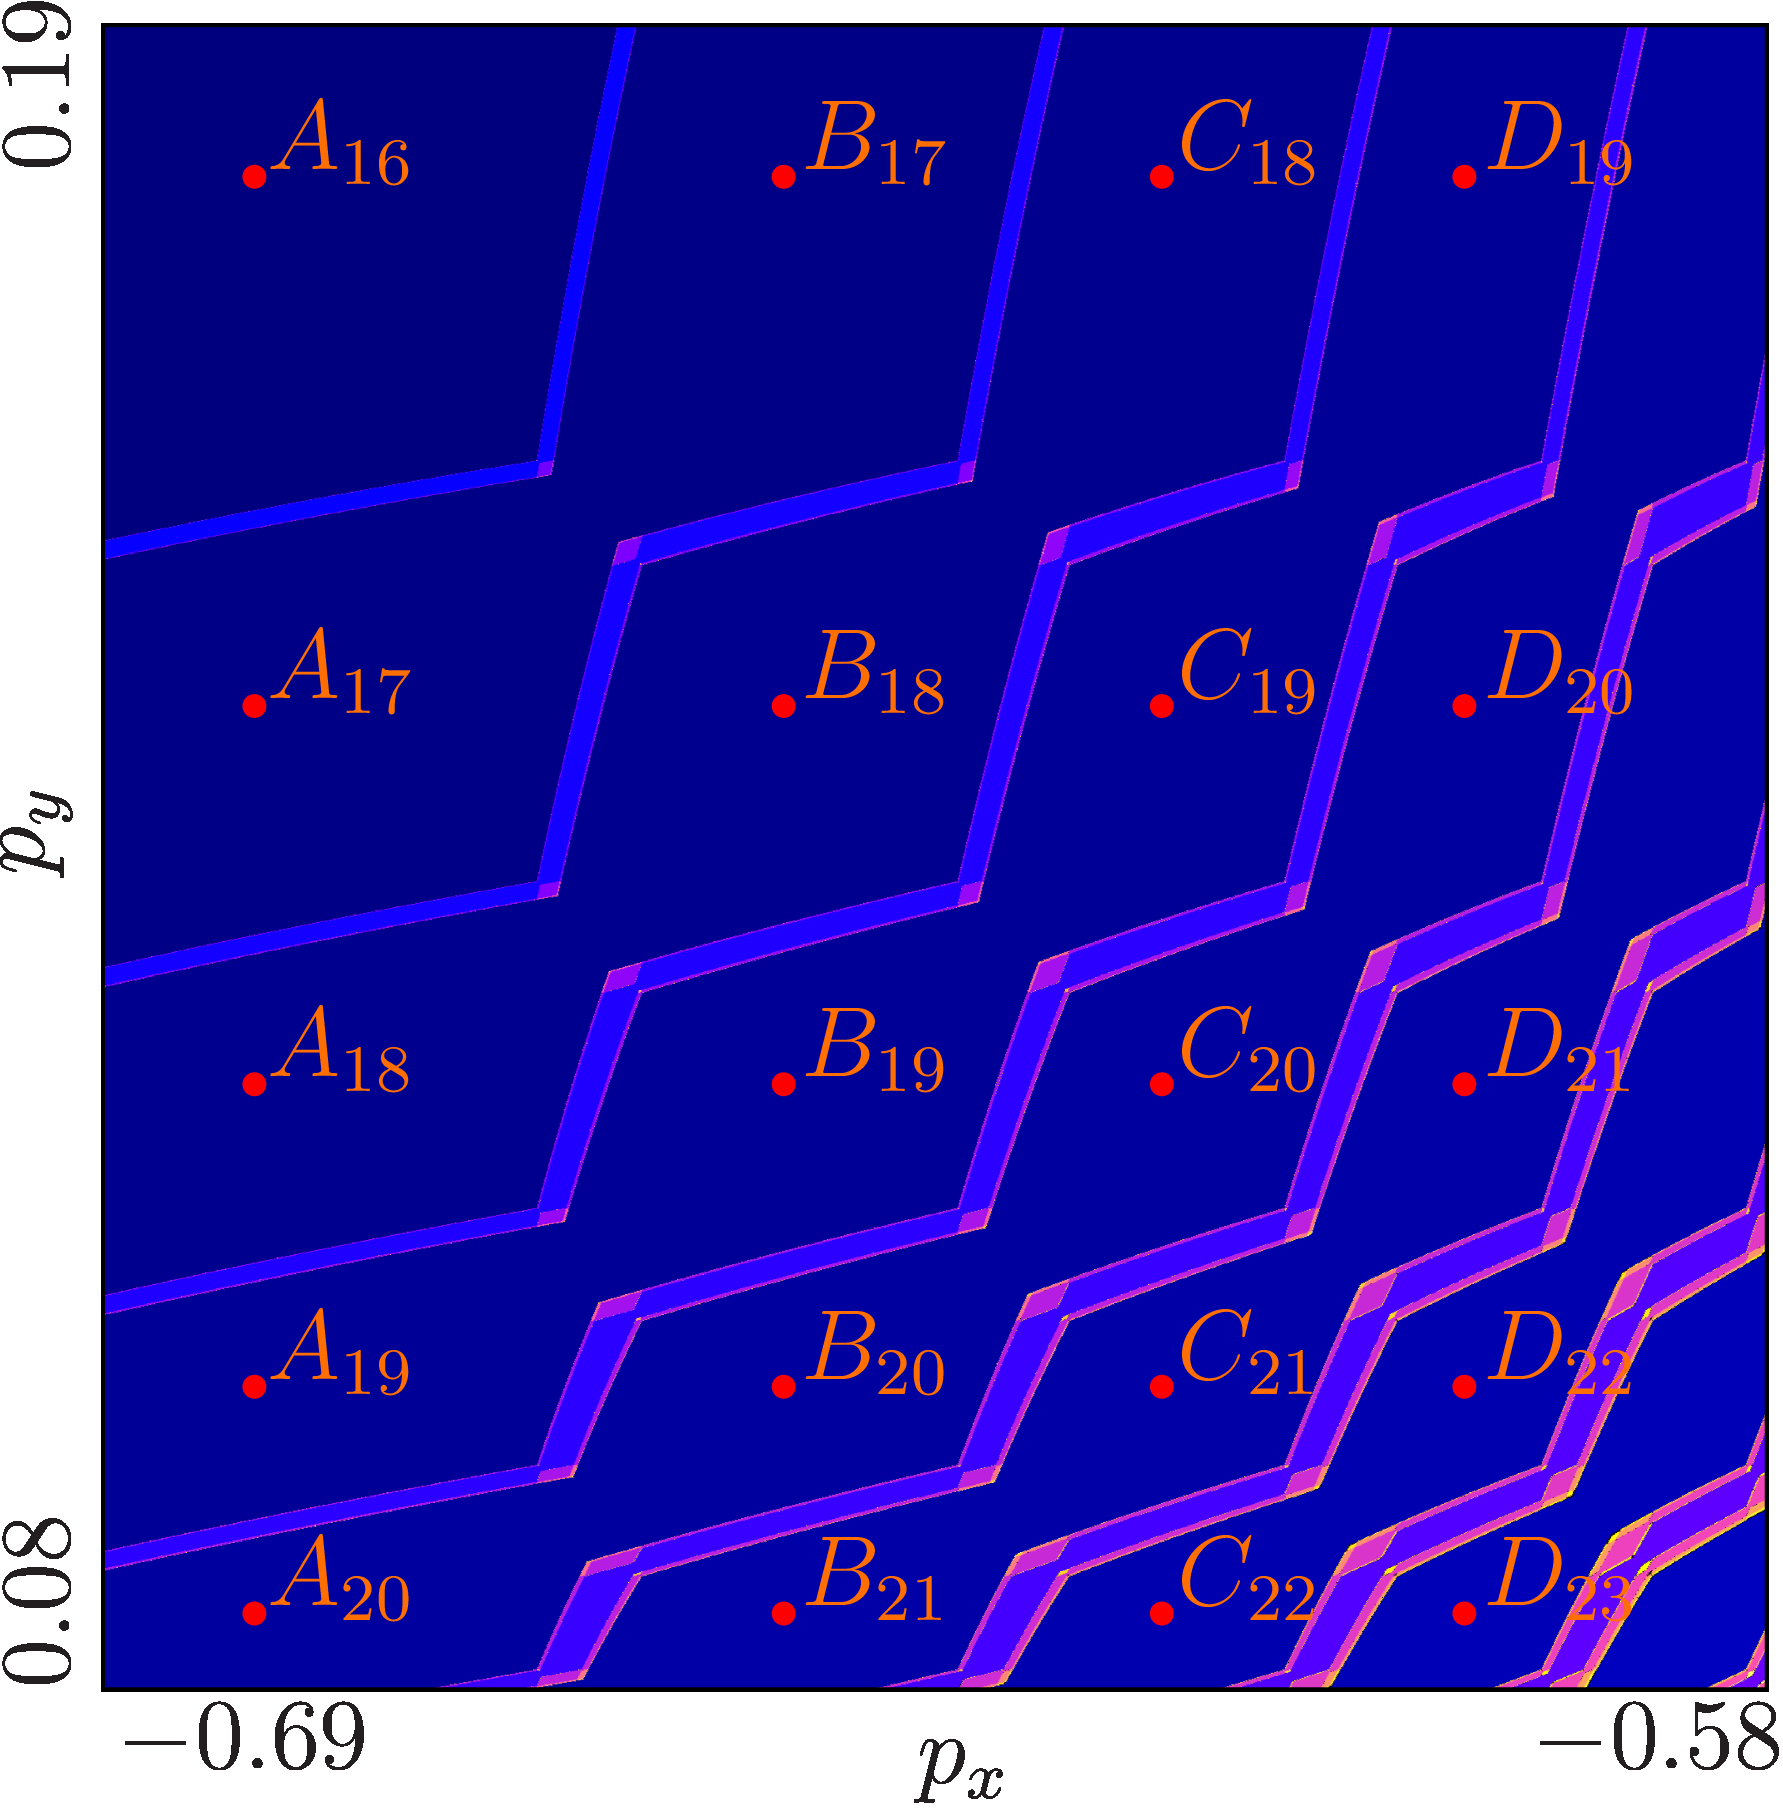
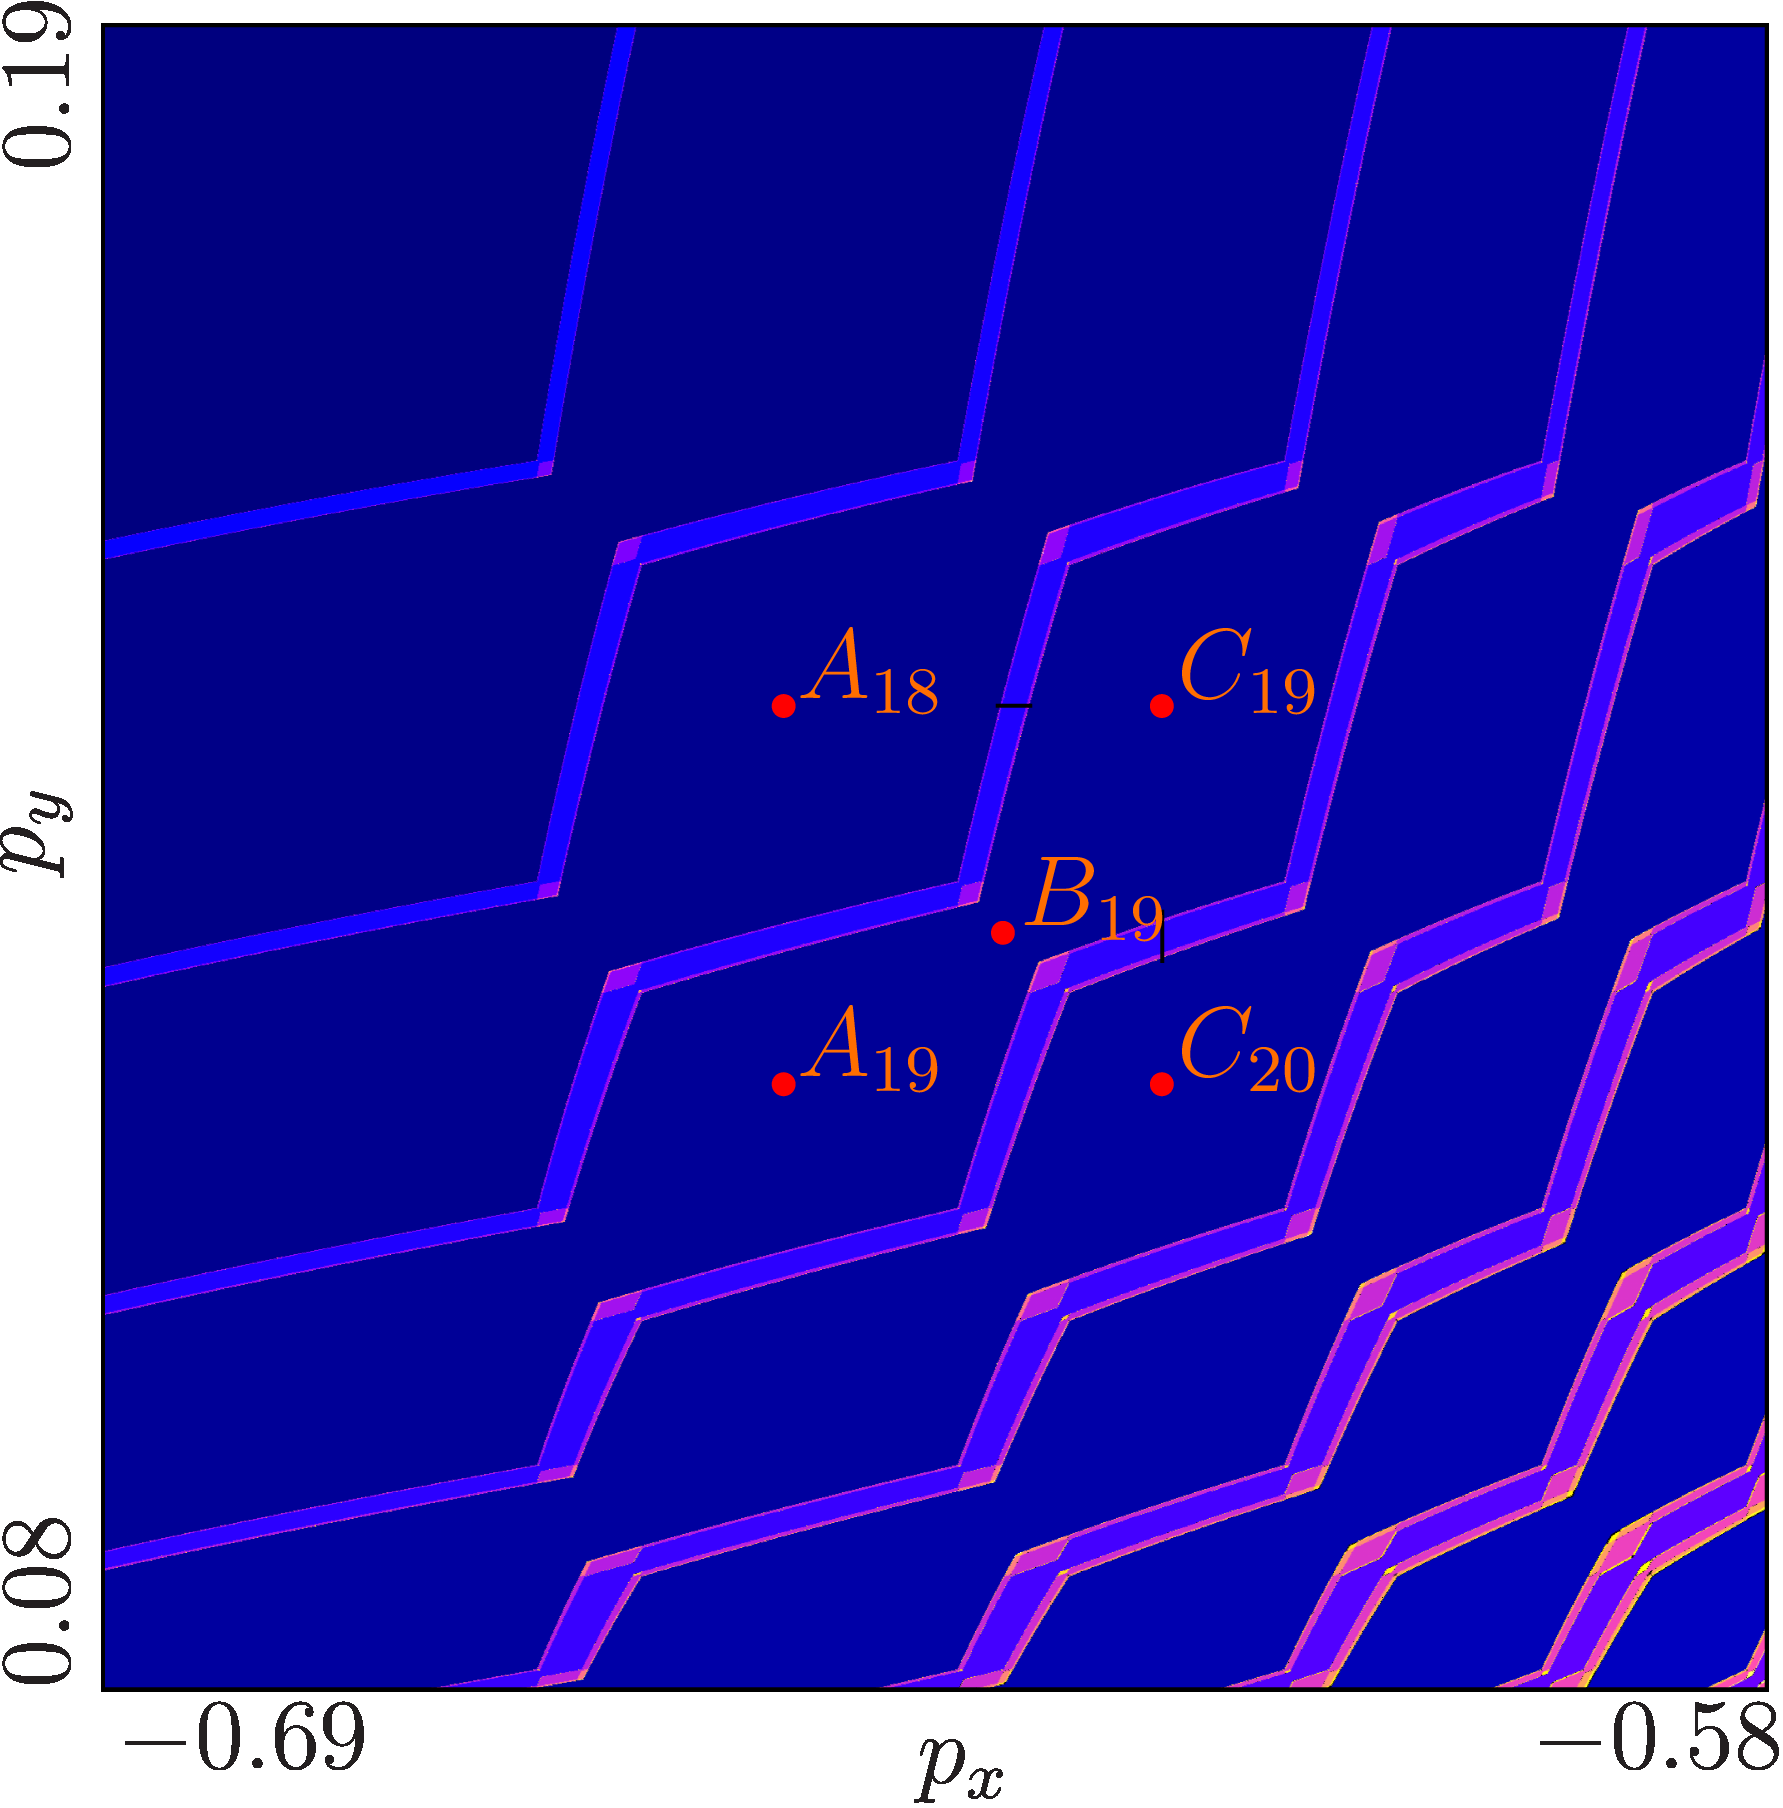
add some infos to the scenarios

diff --git a/Report/Sections/70_Adding/42_adding_between_chains.tex b/Report/Sections/70_Adding/42_adding_between_chains.tex
@@ -1,5 +1,13 @@
 \subsection{Adding In Between Chains}
 
+In the lower right qudrant: Period adding in between chains.
+
+Along the chains: No ``Type B'' parameter regions, only ``Type A''.
+They can overlap.
+Cycle at point $A_{19}$: $\Cycle{\L^{10}\B^9}$, at point $C_{19}$: $\Cycle{\L^9\R^{10}}$.
+The parameter regions overlap and both cycles coexist at point $B_{19}$.
+Hard to visualize, because they have the same period.
+
 \begin{figure}
     \centering
     \begin{subfigure}{0.4\textwidth}
@@ -45,20 +53,20 @@
     \centering
     \begin{subfigure}{0.3\textwidth}
         \centering
-        \includegraphics[width=\textwidth]{70_030_SearchAdding_quad2/Cobweb_LowerRight_A18/result.png}
-        \caption{At $B_{8}$}
+        \includegraphics[width=\textwidth]{70_030_SearchAdding_quad2/Cobweb_LowerRight_A19/result.png}
+        \caption{At $A_{19}$}
         %        \label{fig:final.period.whole.full}
     \end{subfigure}
     \begin{subfigure}{0.3\textwidth}
         \centering
-        \includegraphics[width=\textwidth]{70_030_SearchAdding_quad2/Cobweb_LowerRight_B18/result.png}
-        \caption{At $B_{8}$}
+        \includegraphics[width=\textwidth]{70_030_SearchAdding_quad2/Cobweb_LowerRight_B19/result.png}
+        \caption{At $B_{19}$}
         %        \label{fig:final.period.whole.full}
     \end{subfigure}
     \begin{subfigure}{0.3\textwidth}
         \centering
         \includegraphics[width=\textwidth]{70_030_SearchAdding_quad2/Cobweb_LowerRight_C20/result.png}
-        \caption{At $C_{10}$}
+        \caption{At $C_{19}$}
         %        \label{fig:final.period.whole.halved}
     \end{subfigure}
     \caption{Cobwebs at Selected Points of Upper Left Quarter Of Quad2 Model}

diff --git a/Report/Sections/70_Adding/43_adding_perp_chains.tex b/Report/Sections/70_Adding/43_adding_perp_chains.tex
@@ -1,5 +1,15 @@
 \subsection{Adding Perpendicular to Chains}
 
+In the upper left quadrant: Period adding perpendicular to the direction of chains.
+Chains also not connected.
+
+Cycle at point $A_8$: $\Cycle{\L^4\R^4}$, at point $C_{10}$: $\Cycle{\L^5\R^5}$.
+The parameter regions overlap and both cycles exist at point $B_{8, 10}$.
+
+The chain of period 9 is not connected.
+The cycle at point $A_9$ is $\Cycle{\L^5\R^4}$ and at point $C_9$ its $\Cycle{\L^4\R^5}$.
+The parameter regions do not overlap with each other.
+
 \begin{figure}
     \centering
     \begin{subfigure}{0.4\textwidth}
@@ -52,7 +62,7 @@
     \begin{subfigure}{0.3\textwidth}
         \centering
         \includegraphics[width=\textwidth]{70_030_SearchAdding_quad2/Cobweb_UpperLeft_B810/result.png}
-        \caption{At $B_{8}$}
+        \caption{At $B_{8, 10}$}
         %        \label{fig:final.period.whole.full}
     \end{subfigure}
     \begin{subfigure}{0.3\textwidth}

diff --git a/Report/Sections/70_Adding/41_no_adding.tex b/Report/Sections/70_Adding/41_no_adding.tex
@@ -1,5 +1,7 @@
 \subsection{Adding-Like}
 
+Scenario like the original model.
+
 \begin{figure}
     \centering
     \begin{subfigure}{0.4\textwidth}

diff --git a/Report/Sections/70_Adding/00_adding.tex b/Report/Sections/70_Adding/00_adding.tex
@@ -1,3 +1,5 @@
 \chapter{Adding}
 
+\todo{motivation, model description, etc.}
+
 \input{Sections/70_Adding/40_adding_structures.tex}
